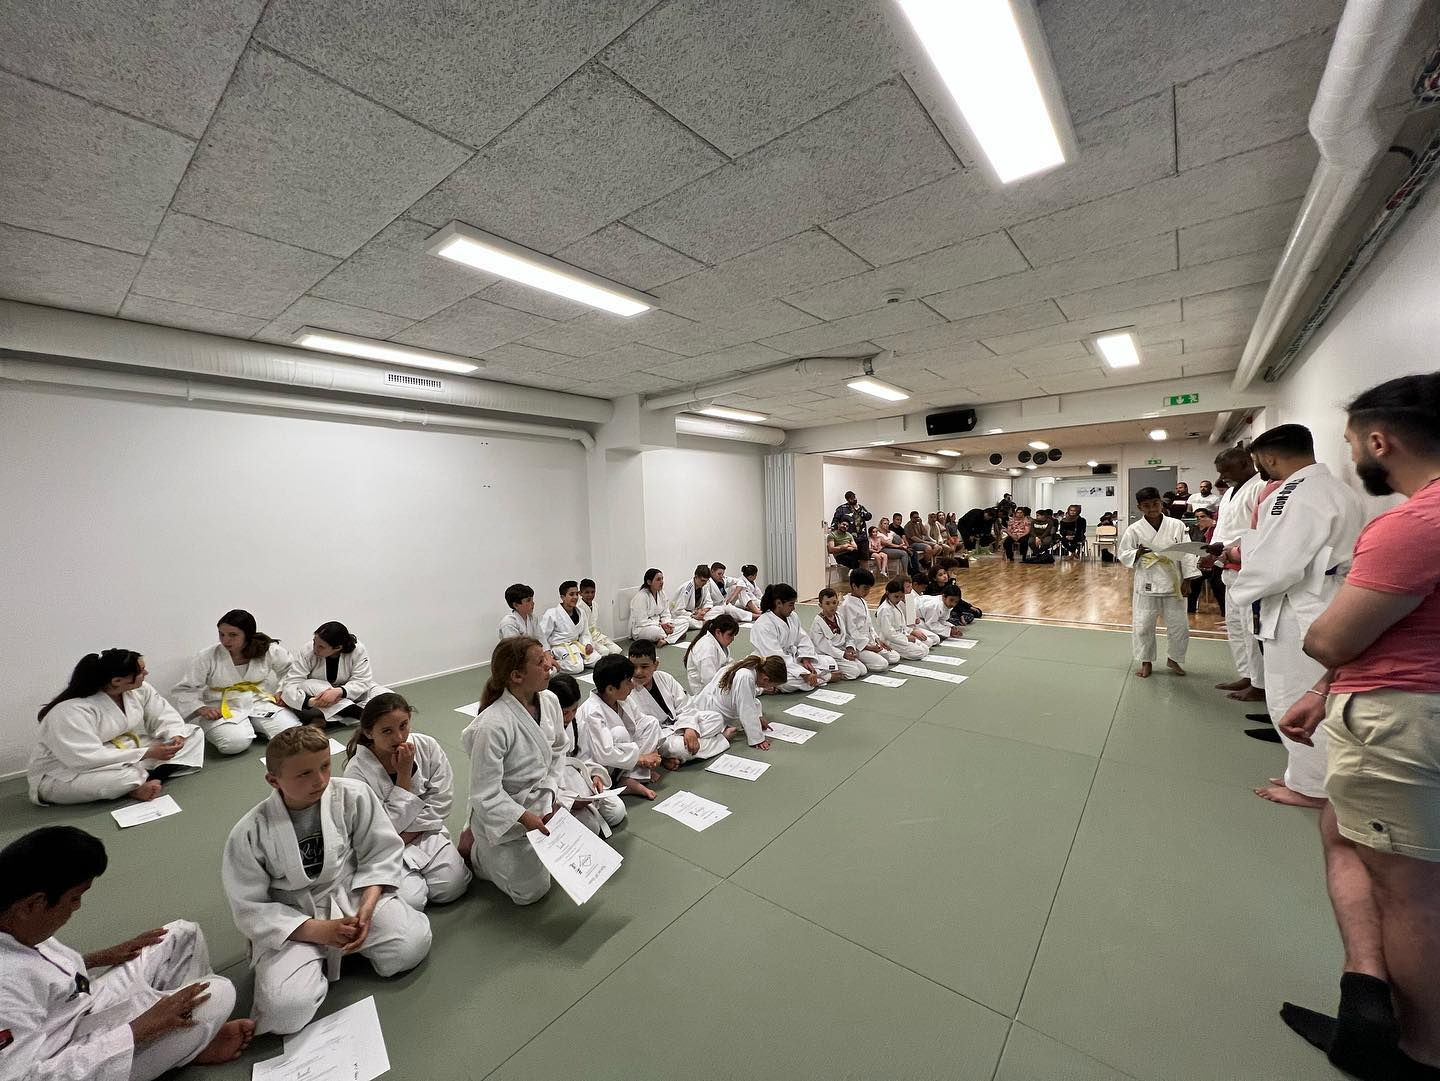
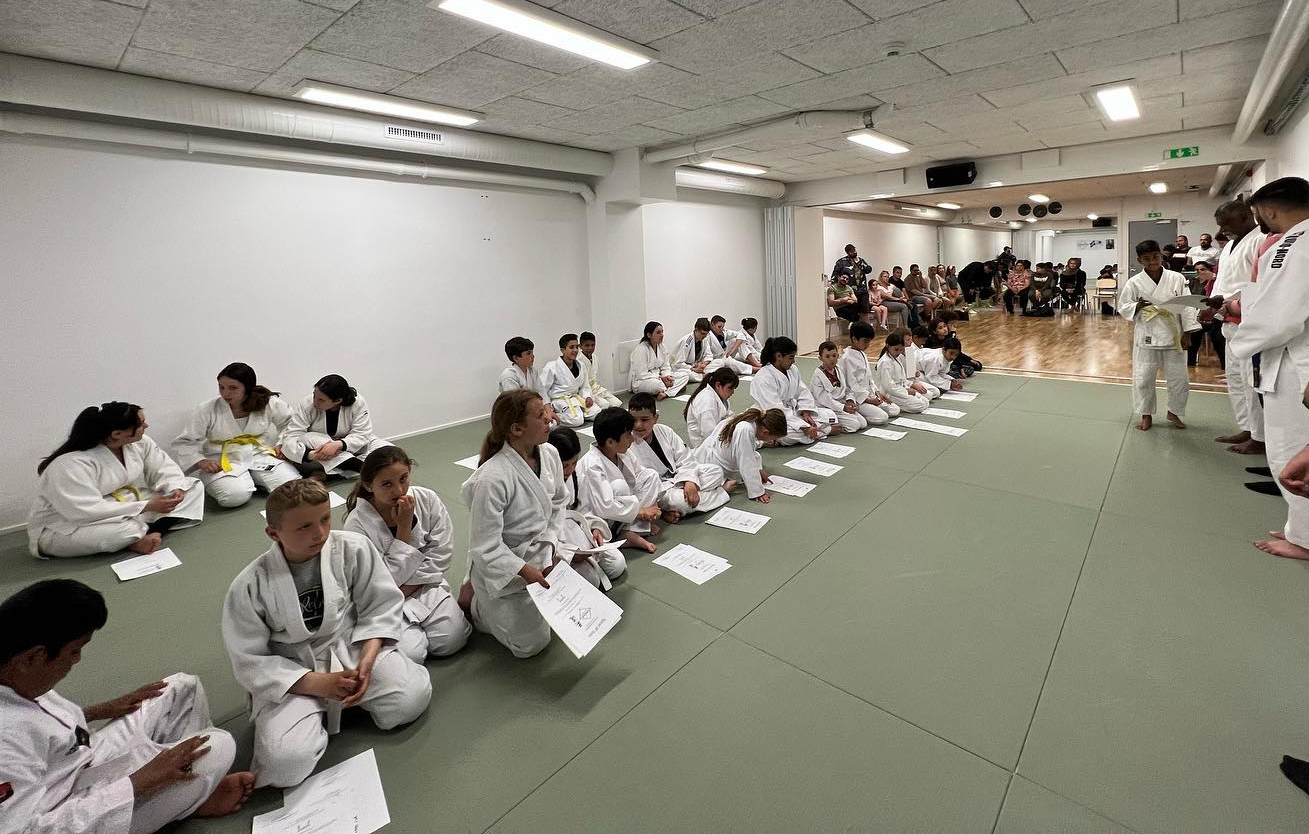
refactor: Update JUDO page header background image
This commit updates the background image of the JUDO page header. The code changes replace the previous background image with a new one for better visual appeal. This enhancement improves the overall design of the JUDO page.

diff --git a/app/judo/page.tsx b/app/judo/page.tsx
@@ -40,7 +40,7 @@ const Judo = () => {
 
   return (
     <>
-      <Header title="JUDO" backgroundImageDesktop='/judo/judo2.png' backgroundImageMobile='/judo/mobilJudo.jpg' />
+      <Header title="JUDO" backgroundImageDesktop='/judo/judo1.png' backgroundImageMobile='/judo/mobilJudo.jpg' />
       <Container sx={{ mt: 4, mb: 6 }}>
 
       <Grid container spacing={4} justifyContent="center" alignItems="center" sx={{ mb: 6 }}>
